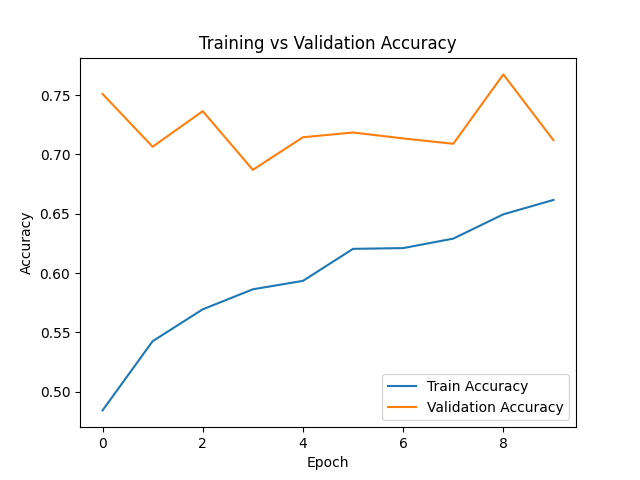
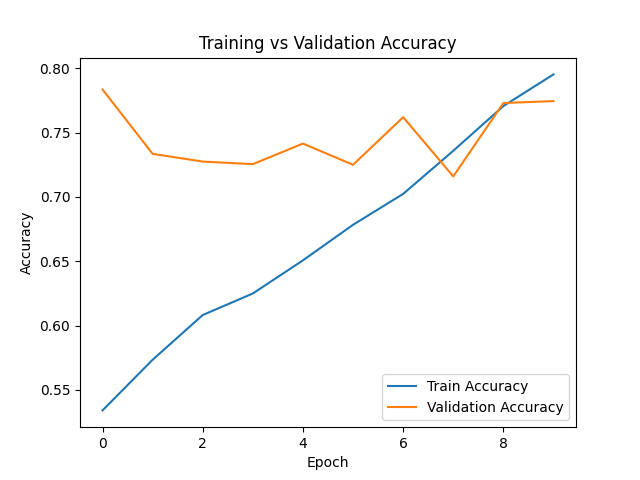
train/val curves

diff --git a/gesture-swipe/train.py b/gesture-swipe/train.py
@@ -27,11 +27,11 @@ sample_weights = torch.tensor(sample_weights, dtype=torch.float32)
 
 sampler = WeightedRandomSampler(weights=sample_weights, num_samples=len(sample_weights), replacement=True)
 
-train_loader = DataLoader(train, batch_size=32, sampler=sampler)
-val_loader = DataLoader(val, batch_size=32)
+train_loader = DataLoader(train, batch_size=16, sampler=sampler)
+val_loader = DataLoader(val, batch_size=16)
 
 model = GestureCNN(num_classes=3).cuda()
-opt = torch.optim.Adam(model.parameters(), lr=1e-5)
+opt = torch.optim.Adam(model.parameters(), lr=5e-5)
 loss_fn = torch.nn.CrossEntropyLoss()
 
 train_accs = []